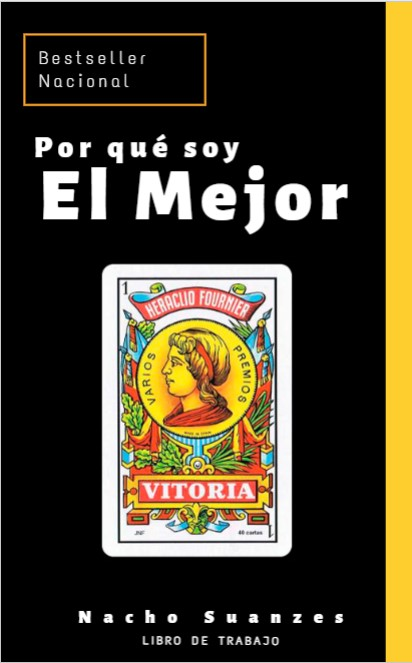
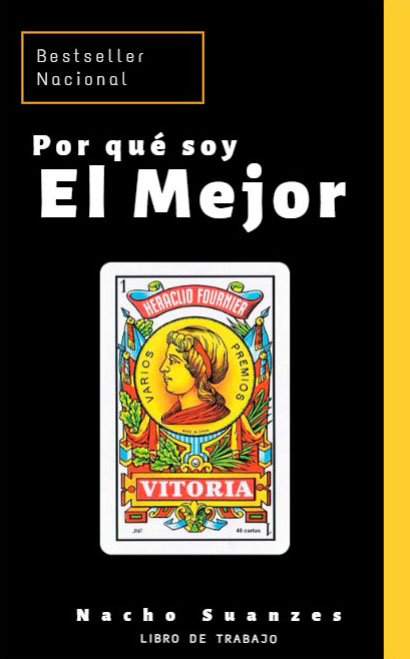
imagenes buenas

diff --git a/src/style.css b/src/style.css
@@ -2,6 +2,10 @@
   --black: rgb(39 39 39 / 86%);
 }
 
+img {
+  border: 1px solid #555;
+}
+
 body {
   font-family: "Gill Sans", "Gill Sans MT", Calibri, "Trebuchet MS", sans-serif;
   font-size: 0.8em;
@@ -38,8 +42,7 @@ p {
   justify-content: center;
   background-color: #f1f1f1;
   text-align: center;
-  padding: 10px;
-  margin-bottom: 30px;
+  padding: 5px;
   font-size: 2em;
   color: var(--black);
 }
